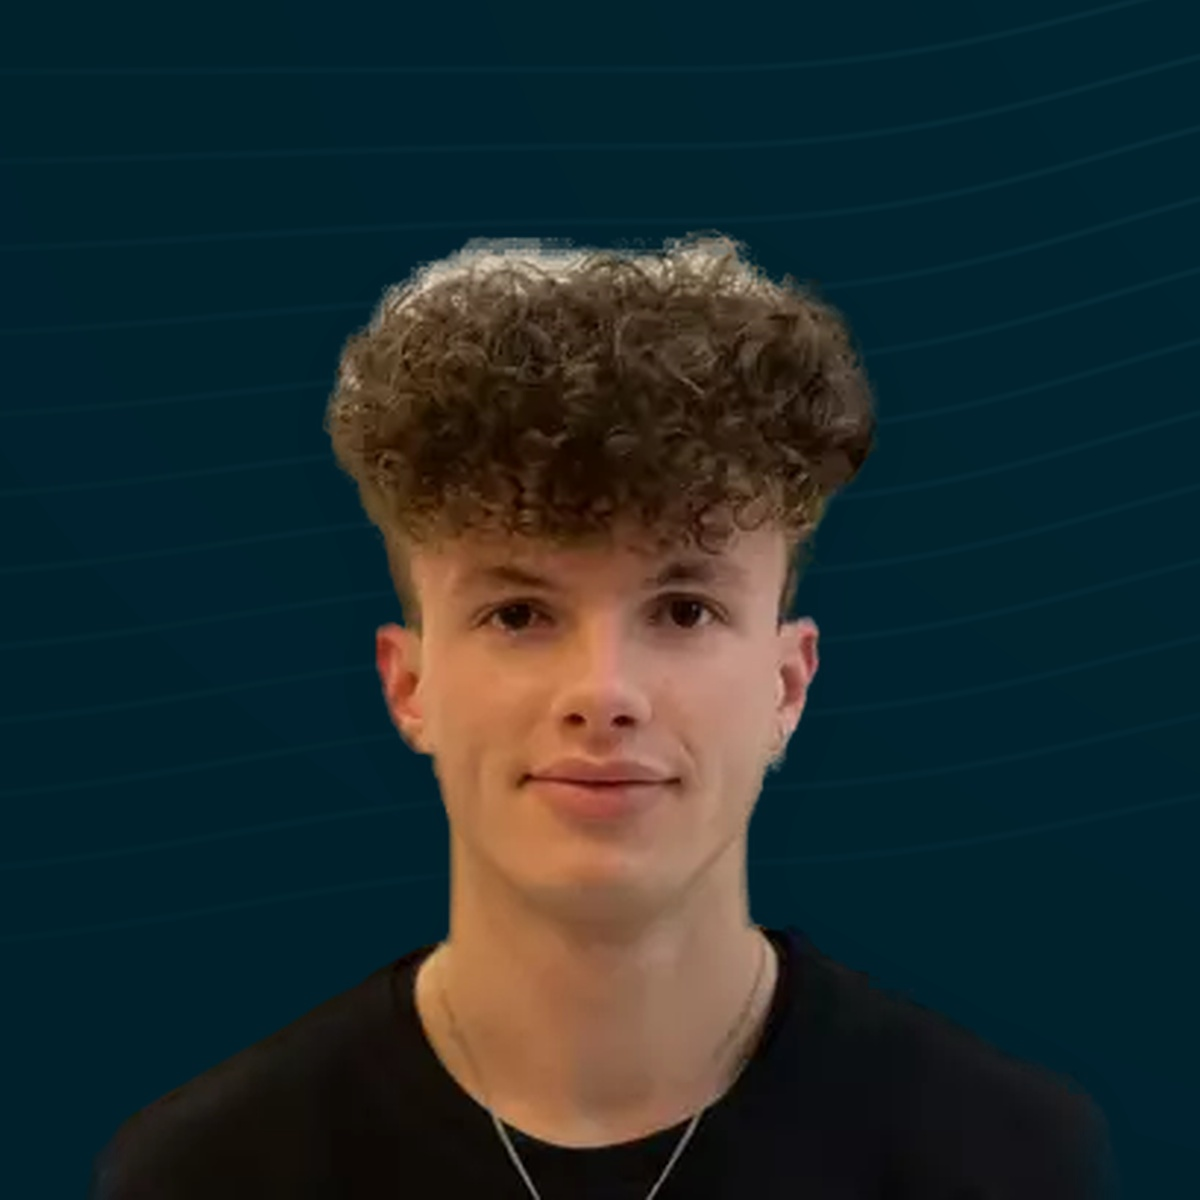
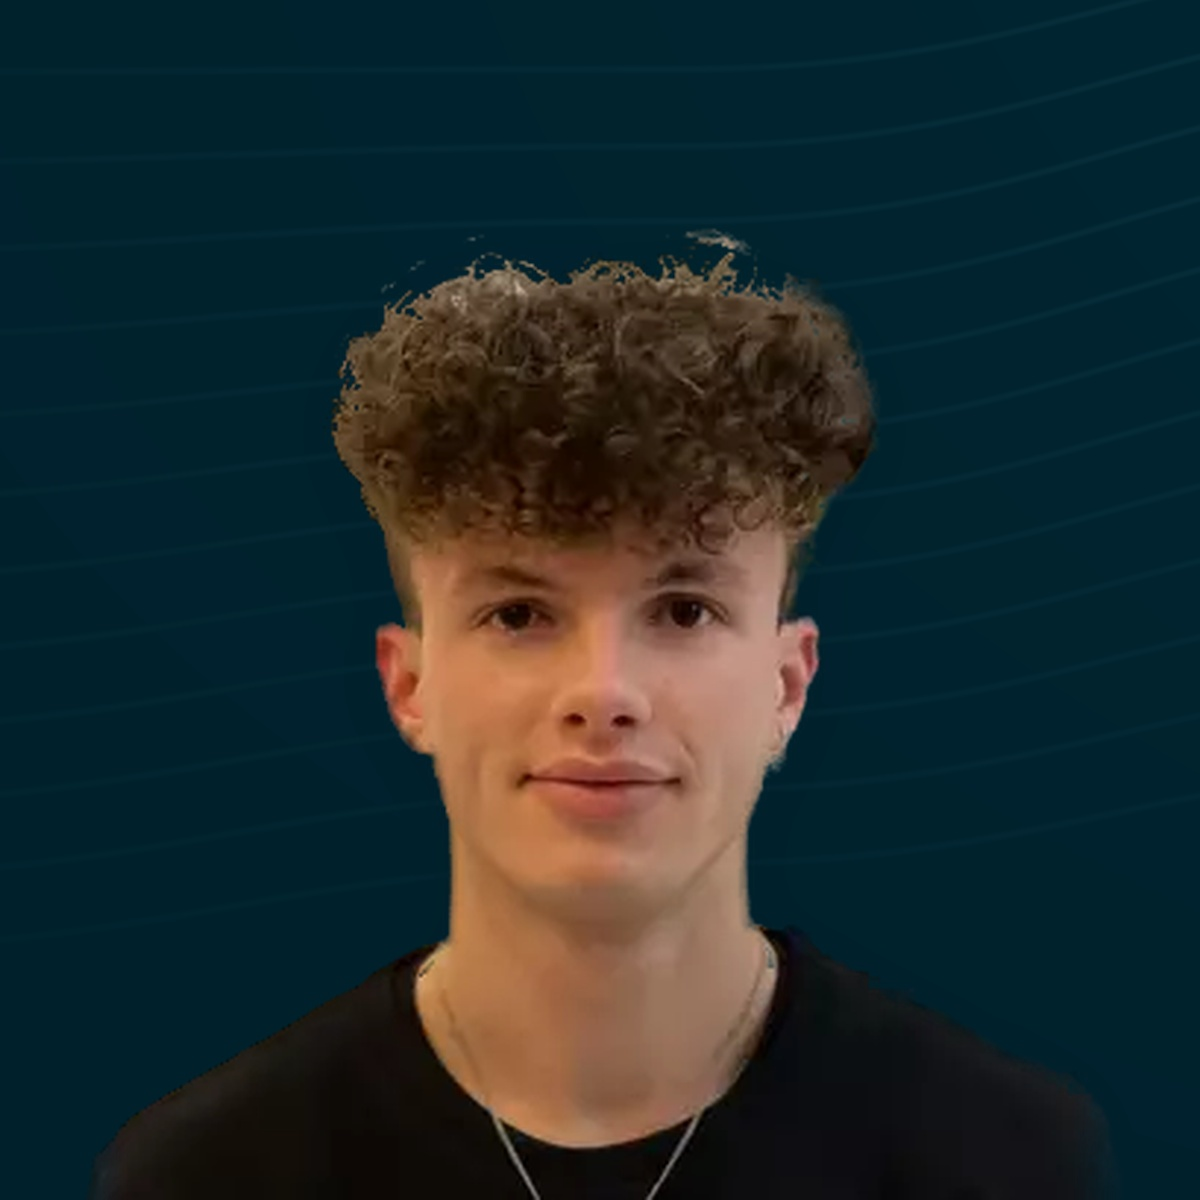
Le mur entre les boucles est retire du masque, non recolore
Le lisere clair au sommet du crane subsistait. Quatre tentatives de
correction de couleur l'ont laisse intact tout en empatant les cheveux.

La mesure a donne la cause : le masque inclut 1 379 pixels clairs au sommet,
de couleur #d7cbba, soit le mur, avec une opacite mediane de 53 % et un
dixieme d'entre eux declares pleinement opaques. Ces derniers servaient a
calculer la "couleur des cheveux voisins" vers laquelle je tirais les
autres : je remplacais donc du mur par du mur.

Rendre une couleur de cheveu a ces pixels n'a pas de sens, il n'y a pas de
cheveu dessous. Ils sont desormais retires du masque, et la silhouette se
resserre un peu, ce qu'un retoucheur ferait a la main.

Le critere est relatif et non absolu, pour ne pas entamer le visage. Les
vrais cheveux plafonnent a 107 de clarte au 99e centile, le mur est a 226,
la peau a 145 : un seuil fixe a 150 aurait rogne la joue. Chaque pixel du
bord est donc compare a la clarte du sujet qui l'entoure, relevee au coeur
du masque a l'ecart de la bande contaminee. Au sommet du crane le coeur est
a 55 et un pixel a 200 part ; au bord de la joue le coeur est a 145 et la
peau reste.

Verifie apres coup : le lisere a disparu, le visage et le cou sont intacts.

Claude-Session: https://claude.ai/code/session_01GKmnHuXGa8xNjYghpKgrZb

Changed region(s): [[0.3083, 0.185, 0.6783, 0.2775], [0.2467, 0.2775, 0.3083, 0.4317]]

diff --git a/nazar-linkedin/sources/photo4-compose.py b/nazar-linkedin/sources/photo4-compose.py
@@ -63,6 +63,45 @@ def decontamine(src_rgb, al, fond):
     f = np.where(trop, (voisin * 1.06) / np.maximum(cl, 1e-6), 1.0)
     return np.clip(sujet * f[..., None], 0, 255)
 
+def ravale(src_rgb, al, bande=6, rayon=9, marge=40, pente=55):
+    """Retire du masque les pixels de fond qu'il a pris pour du sujet.
+
+    Au sommet du crane le mur passe entre les boucles. Le masque y inclut des
+    pixels qui sont du mur, parfois en les declarant pleinement opaques. Tenter
+    de leur rendre une couleur de cheveu ne marche pas : il n'y a pas de cheveu
+    dessous. On les ecarte donc, et la silhouette se resserre un peu, ce qu'un
+    retoucheur ferait a la main.
+
+    Le critere est relatif et non absolu, pour ne pas entamer le visage. Les
+    mesures sur cette photo : les vrais cheveux plafonnent a 107 de clarte au
+    99e centile, le mur est a 226, la peau a 145. Un seuil fixe a 150
+    rognerait donc la joue. On compare chaque pixel du bord a la clarte du
+    sujet qui l'entoure : au sommet du crane le coeur est a 55, un pixel a 200
+    s'en ecarte de 145 et part ; au bord de la joue le coeur est a 145, la peau
+    ne s'en ecarte pas et reste.
+    """
+    def clarte(x):
+        return .299 * x[..., 0] + .587 * x[..., 1] + .114 * x[..., 2]
+
+    bord = np.asarray(Image.fromarray(((al < 250) * 255).astype(np.uint8))
+                      .filter(ImageFilter.MaxFilter(2 * bande + 1))).astype(np.float32) / 255.0
+    proche = bord > 0.5
+    # la clarte de reference est relevee au coeur du masque, a l'ecart de la
+    # bande : les pixels de mur qui s'y trouvent ne doivent pas la tirer vers
+    # le haut
+    coeur = ((al > 240) & ~proche).astype(np.float32)
+    poids = np.asarray(Image.fromarray((coeur * 255).astype(np.uint8))
+                       .filter(ImageFilter.GaussianBlur(rayon))).astype(np.float32) / 255.0
+    somme = np.asarray(Image.fromarray((clarte(src_rgb) * coeur).astype(np.uint8))
+                       .filter(ImageFilter.GaussianBlur(rayon))).astype(np.float32)
+    cv = somme / np.maximum(poids, 1e-3)
+    sur = poids > 0.04
+
+    trop = (clarte(src_rgb) - cv - marge) / float(pente)
+    garde = np.clip(1.0 - trop, 0.0, 1.0)
+    garde = np.where(proche & sur, garde, 1.0)
+    return al * garde
+
 def nettoie(im, marge=18):
     a = np.asarray(im).astype(np.float32)
     al = a[..., 3]
@@ -93,6 +132,7 @@ def fabrique(src_png, sortie, src_brut='source.webp'):
     fond = carte_du_fond(rgb, al)
     print('   fond estime localement : #%02x%02x%02x a gauche, #%02x%02x%02x a droite'
           % (tuple(fond[20, 10].astype(int)) + tuple(fond[20, -10].astype(int))))
+    al = ravale(rgb, al)
     couleur = decontamine(rgb, al, fond)
     # meme seuil que la decontamination : ce qu'on ne sait pas corriger, on
     # l'ecarte, au prix de cheveux legerement plus fins

diff --git a/nazar-linkedin/LISEZ-MOI.md b/nazar-linkedin/LISEZ-MOI.md
@@ -113,9 +113,17 @@ de lui. Un rayon unique et large mélangeait le mur et le tableau juste
 au-dessus de la tête, sous-estimait la clarté du fond, et la couleur
 reconstituée partait vers le blanc.
 
-Il subsiste un liséré clair au sommet des boucles. Vérification faite sur
-la photo d'origine : le mur passe à travers les cheveux à cet endroit, et à
-360 px chaque pixel mélange cheveu et mur sans qu'aucune couleur de cheveu
-pure ne soit récupérable. Ce n'est donc pas un défaut du traitement. Aux
-tailles où LinkedIn affiche l'avatar, 200 px et moins, cela se lit comme un
-reflet.
+**Le mur à travers les cheveux.** Au sommet du crâne, le mur passe entre les
+boucles, et le masque inclut des pixels qui sont du mur, dix pour cent d'entre
+eux étant même déclarés pleinement opaques. Leur rendre une couleur de cheveu
+ne marche pas : il n'y a pas de cheveu dessous. Ils sont donc retirés du
+masque, et la silhouette se resserre un peu, ce qu'un retoucheur ferait à la
+main.
+
+Le critère est **relatif** et non absolu, pour ne pas entamer le visage. Les
+mesures sur cette photo : les vrais cheveux plafonnent à 107 de clarté au 99e
+centile, le mur est à 226, la peau à 145. Un seuil fixe à 150 aurait donc
+rogné la joue. Chaque pixel du bord est comparé à la clarté du sujet qui
+l'entoure : au sommet du crâne le cœur est à 55, un pixel à 200 s'en écarte de
+145 et part ; au bord de la joue le cœur est à 145, la peau ne s'en écarte pas
+et reste.
